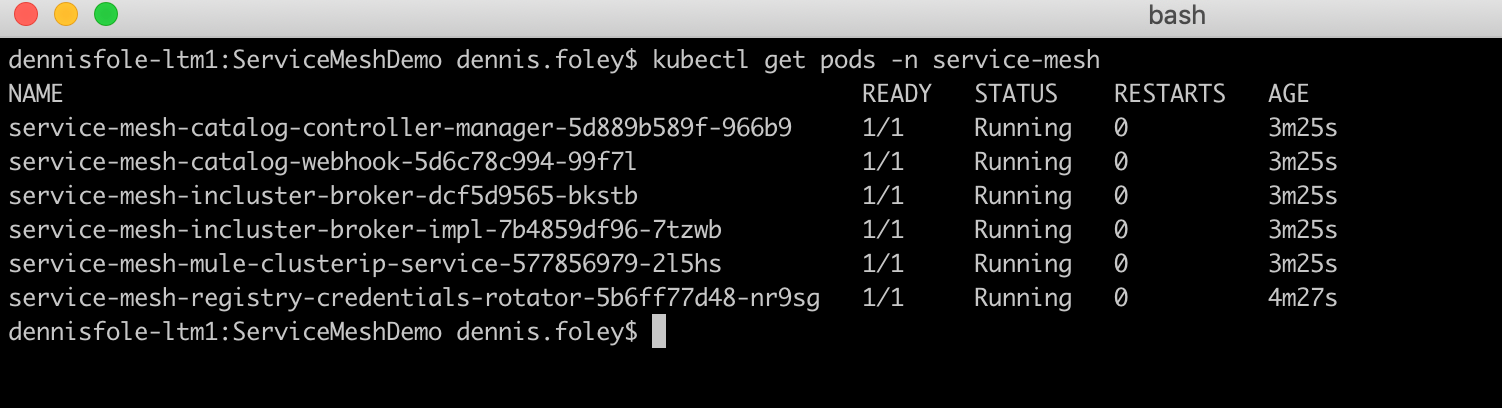
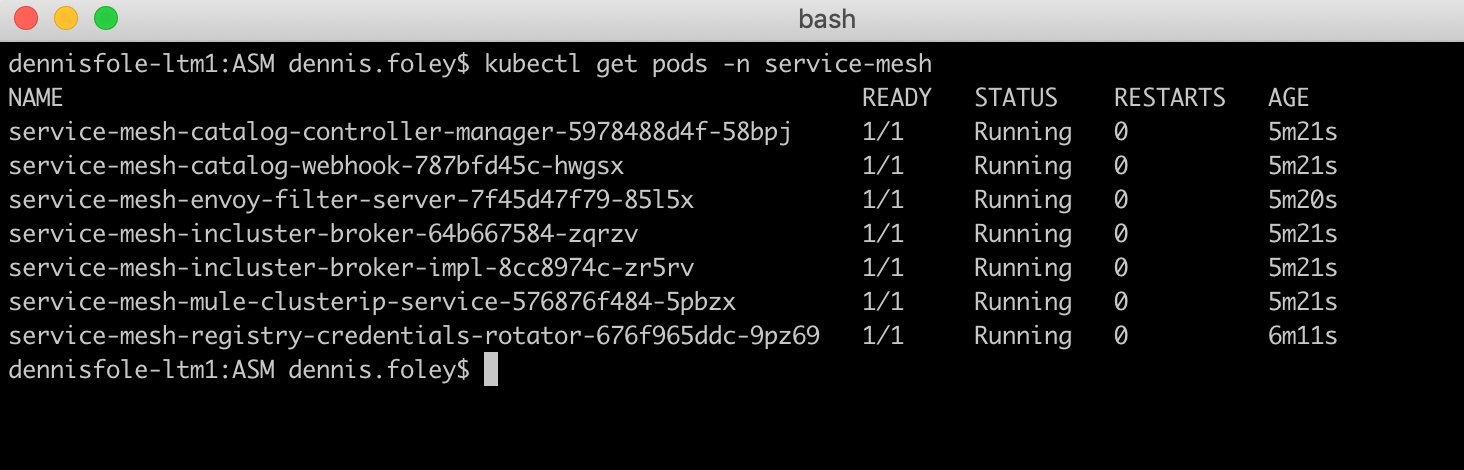
Updated for ASM 1.1 and Istio 1.7.2

diff --git a/README.md b/README.md
@@ -1,5 +1,5 @@
 ![](images/title.png)  
-Update: May 18, 2020
+Update: September 29, 2020
 
 ## Introduction
 
@@ -41,7 +41,7 @@ This cookbook will walk you through the process of installing **Anypoint Service
 - The following lab requires a Google Cloud Platform account.
 - Access to [Anypoint Platform](https://anypoint.mulesoft.com/)
 
-For complete instructions please visit [MuleSoft Documentation](https://docs.mulesoft.com/service-mesh/1.0/)
+For complete instructions please visit [MuleSoft Documentation](https://docs.mulesoft.com/service-mesh/1.1/)
 
 <a id="installgke"></a>
 ## Create Google Kubernetes cluster
@@ -80,7 +80,11 @@ For complete instructions please visit [MuleSoft Documentation](https://docs.mul
 
     ![](images/image5.png)
 
-- Expand **default-pool** and select **Nodes**. Per [documentation](https://docs.mulesoft.com/service-mesh/1.0/prepare-to-install-service-mesh#hardware-requirements) change Machine type to **n1-standard-4**
+- Select **Master Version** of **1.16.x or higher**
+
+    ![](images/image5.5.png)
+    
+- Expand **default-pool** and select **Nodes**. Per [documentation](https://docs.mulesoft.com/service-mesh/1.1/prepare-to-install-service-mesh#hardware-requirements) change Machine type to **e2-standard-4**
 
     ![](images/image6.png)
 
@@ -122,7 +126,7 @@ kubectl get namespaces
 - Use the following command to download **Istio CLI** into your directory of choice. In this example I am using directory **/Users/dennis.foley/ASM**
 
 ```bash
-curl -L https://istio.io/downloadIstio | ISTIO_VERSION=1.5.2 sh -
+curl -L https://istio.io/downloadIstio | ISTIO_VERSION=1.7.2 sh -
 ```
 
 ![](images/image11.png)
@@ -130,7 +134,7 @@ curl -L https://istio.io/downloadIstio | ISTIO_VERSION=1.5.2 sh -
 - Change into newly downloaded directory
 
 ```bash
-cd istio-1.5.2/
+cd istio-1.7.2/
 ```
 
 - Add current directly to path
@@ -143,39 +147,10 @@ export PATH=$PWD/bin:$PATH
 
 <a id="step5"></a>
 ### **STEP 5**: Install Istio using CLI
-- To install **Istio** we will be using the **Istio CLI**. From the **istio** directory run the following command
-
-- First, create **istio-manifest.yaml** with the following content:
+- To install **Istio** we will be using the **Istio CLI**. From the **istio** directory run the following command. At the prompt **Proceed? (y/N)** enter **y**
 
 ```bash
-apiVersion: install.istio.io/v1alpha1
-kind: IstioOperator
-spec:
-  profile: default
-  components:
-    policy:
-      enabled: true
-    sidecarInjector:
-      enabled: true
-    citadel:
-      enabled: true
-    telemetry:
-      enabled: true
-  addonComponents:
-    prometheus:
-      enabled: false
-  values:
-    global:
-      disablePolicyChecks: false
-    telemetry:
-      v1:
-        enabled: true
-      v2:
-        enabled: false
-```
-
-```bash
-istioctl manifest apply -f istio-manifest.yaml
+istioctl install
 ```
 
 ![](images/image13.png)
@@ -256,15 +231,7 @@ http://<EXTERNAL-IP>:3000
 <a id="step8"></a>
 ### **STEP 8**: Install Anypoint Service Mesh
 
-For complete instructions and documentation please visit [MuleSoft Docs](https://beta.docs.stgx.mulesoft.com/beta-service-mesh/service-mesh/1.0/service-mesh-overview-and-landing-page)
-
-- First lets enable API Analytics by setting the **disableMixerHttpReports** flag to false:
-
-```bash
-kubectl -n istio-system get cm istio -o yaml | sed -e 's/disableMixerHttpReports: true/disableMixerHttpReports: false/g' | kubectl replace -f -
-```
-
-![](images/image20.png)
+For complete instructions and documentation please visit [MuleSoft Docs](https://docs.mulesoft.com/service-mesh/1.1/)
 
 - Download the latest Anypoint Service Mesh CLI and make it executable
 
@@ -323,52 +290,6 @@ asmctl adapter list
 ```
 
 ![](images/image25.png)
-
-- After you provision the adapter, you must set the `istio-injection=enabled` label on the namespace by runnning the following command
-
-```bash
-kubectl label ns mythical-payment istio-injection=enabled --overwrite
-```
-
-- Redeploy all the existing applications in the namepsace. See Step 6.2 in [MuleSoft Docs](https://docs.mulesoft.com/service-mesh/1.0/provision-adapter-configure-service-mesh-CLI)
-
-```bash
-kubectl get deployments -n mythical-payment
-```
-
-```bash
-kubectl -n mythical-payment patch deploy customer-app --type=json -p='[{"op": "replace", "path": "/spec/template/metadata/labels/service-mesh.mulesoft.com","value":"enable"}]'
-```
-
-```bash
-kubectl -n mythical-payment patch deploy inventory-app --type=json -p='[{"op": "replace", "path": "/spec/template/metadata/labels/service-mesh.mulesoft.com","value":"enable"}]'
-```
-
-```bash
-kubectl -n mythical-payment patch deploy order-app --type=json -p='[{"op": "replace", "path": "/spec/template/metadata/labels/service-mesh.mulesoft.com","value":"enable"}]'
-```
-
-```bash
-kubectl -n mythical-payment patch deploy payment-app --type=json -p='[{"op": "replace", "path": "/spec/template/metadata/labels/service-mesh.mulesoft.com","value":"enable"}]'
-```
-
-```bash
-kubectl -n mythical-payment patch deploy service-mesh-ui --type=json -p='[{"op": "replace", "path": "/spec/template/metadata/labels/service-mesh.mulesoft.com","value":"enable"}]'
-```
-
-```bash
-kubectl get pods -n mythical-payment
-```
-
-![](images/image25.5.png)
-
-- Verify the Envoy sidecar is injected within each pod in the Kubernetes Cluster by running the following command
-
-```bash
-asmctl management check sidecar --namespace=mythical-payment
-```
-
-![](images/image25.7.png)
 
 <a id="step10"></a>
 ### **STEP 10**: Create API's
